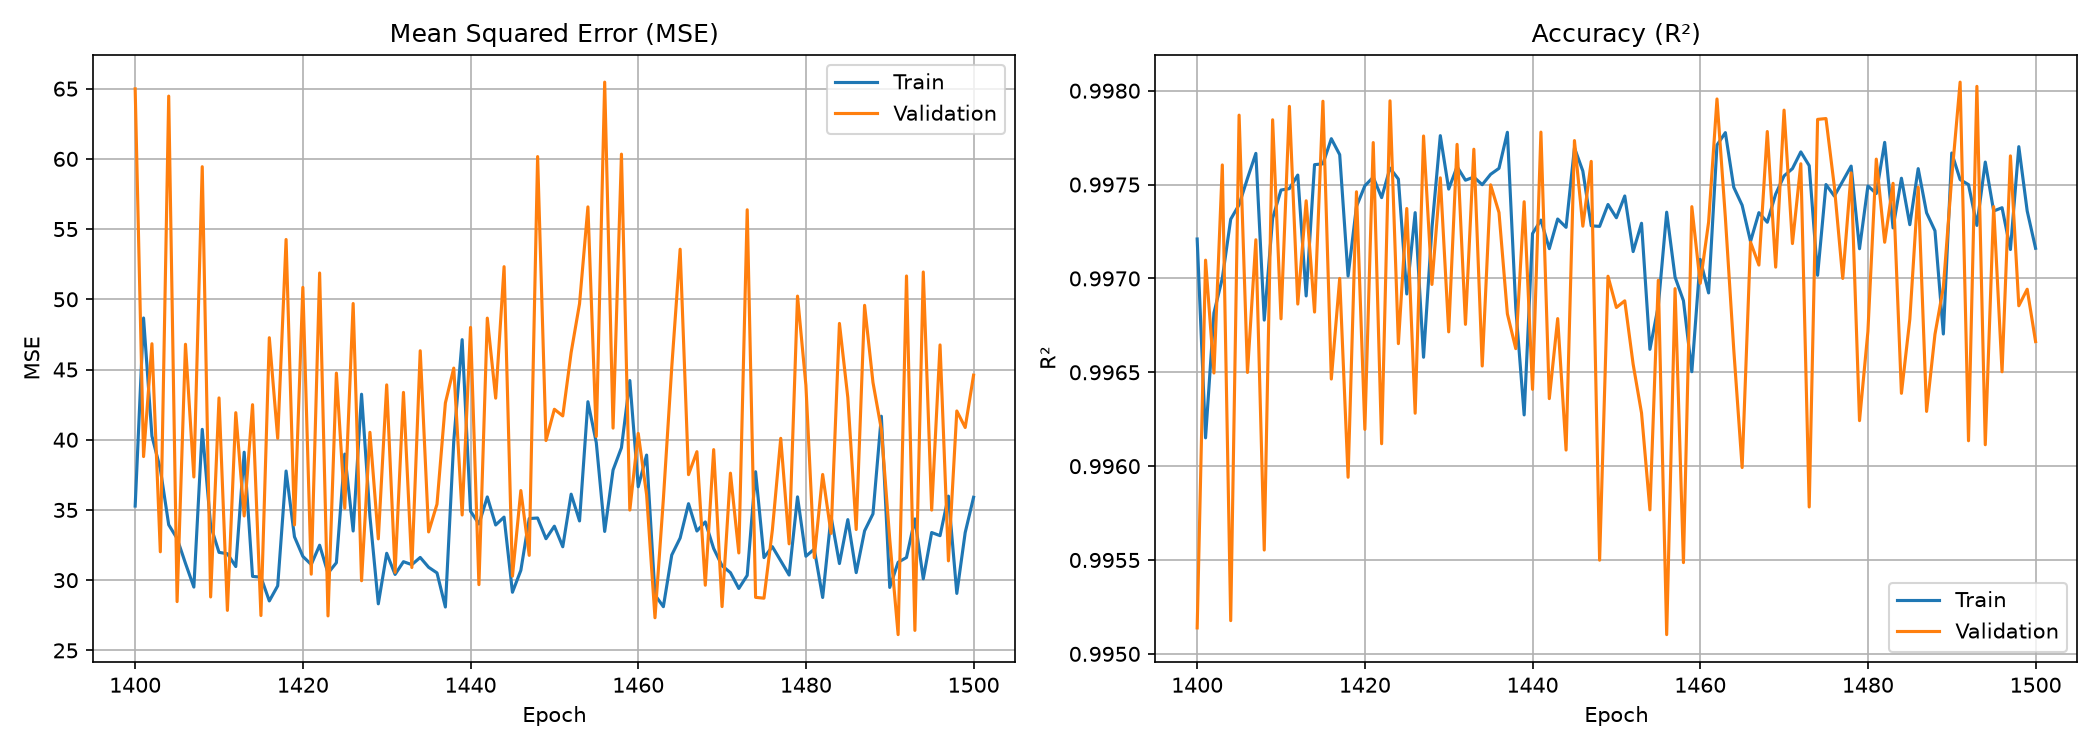
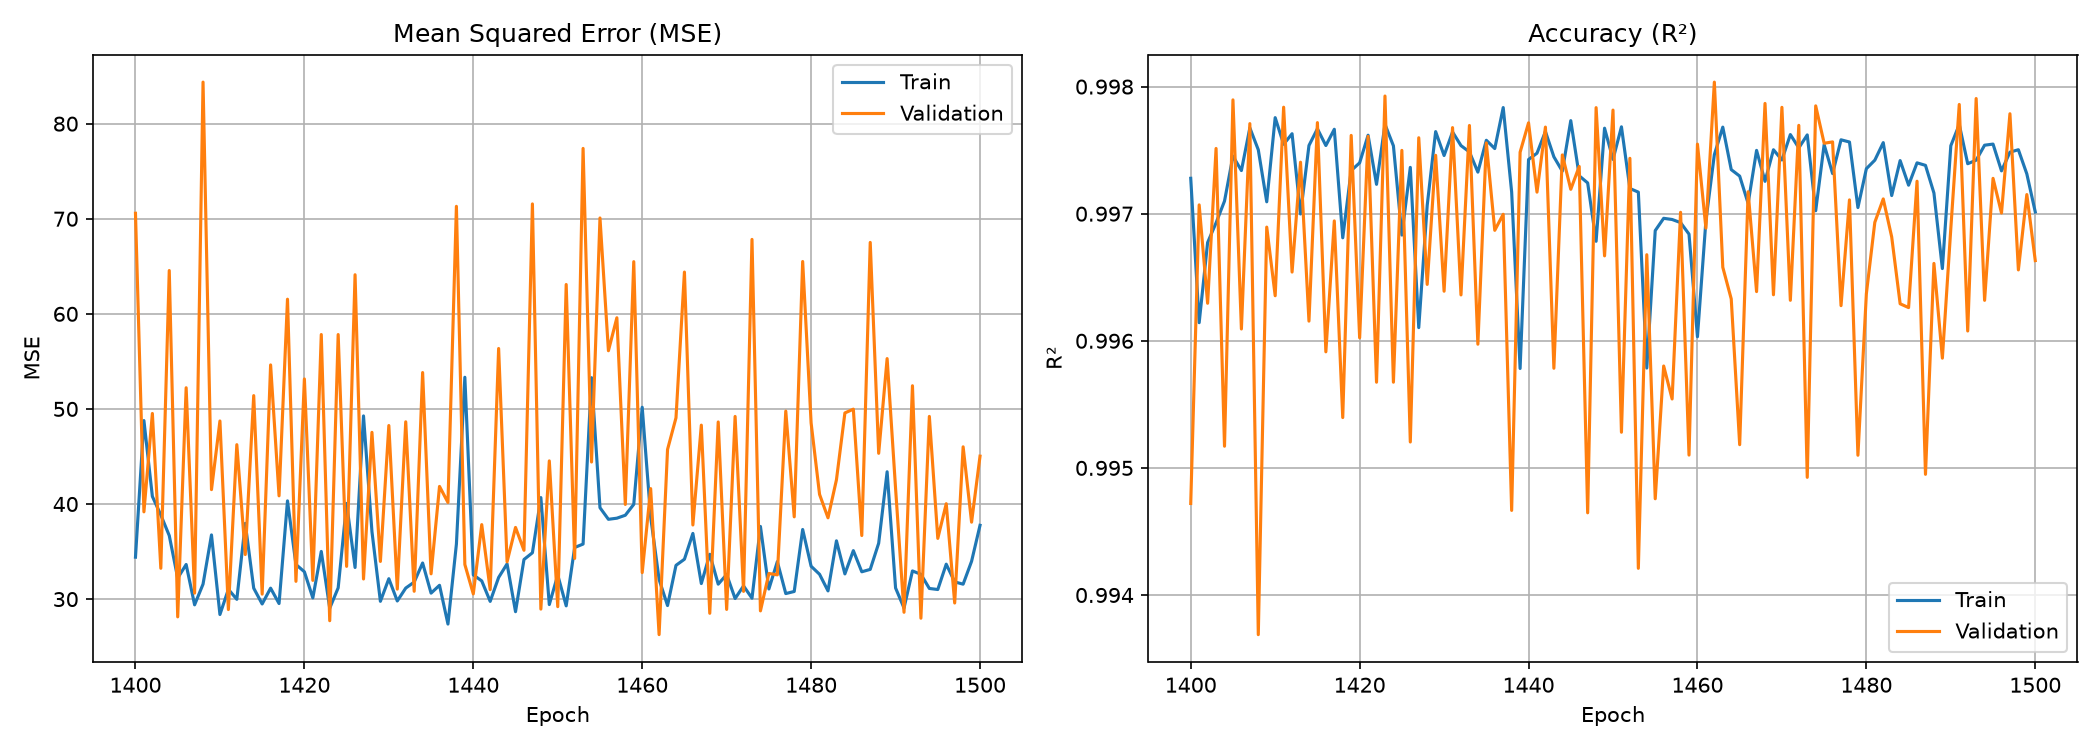
calculated 'sea depth' as an additional feature

diff --git a/memo.md b/memo.md
@@ -188,3 +188,13 @@ Huber損失（δ=10）、AdamW（`weight_decay=0.025`）、コサイン学習率
 ![OptunaのfANOVAによるパラメータ重要度](output/optuna/parameter_importance.png)
 
 [全試行](output/optuna/trials.csv) · [3シードでの評価](output/optuna/finalists.csv) · [採用設定と実行条件](output/optuna/summary.json)
+
+## 特徴量エンジニアリング（2026-11-15）
+
+| 追加特徴量     | 計算式                  | 期待する効果               |
+| -------------- | ----------------------- | -------------------------- |
+| `log_depth`    | `log1p(R_Depth)`        | 深度の非線形な影響を表現   |
+| `temp_x_sal`   | `R_TEMP × R_Sal`        | 温度と塩分の相互作用       |
+| `temp_squared` | `R_TEMP²`               | 温度とDICの非線形関係      |
+| `DIN_total`    | `NO3uM + NO2uM + NH3uM` | 無機態窒素の総量           |
+| `no3_x_po4`    | `NO3uM × PO4uM`         | 硝酸塩とリン酸塩の相互作用 |
